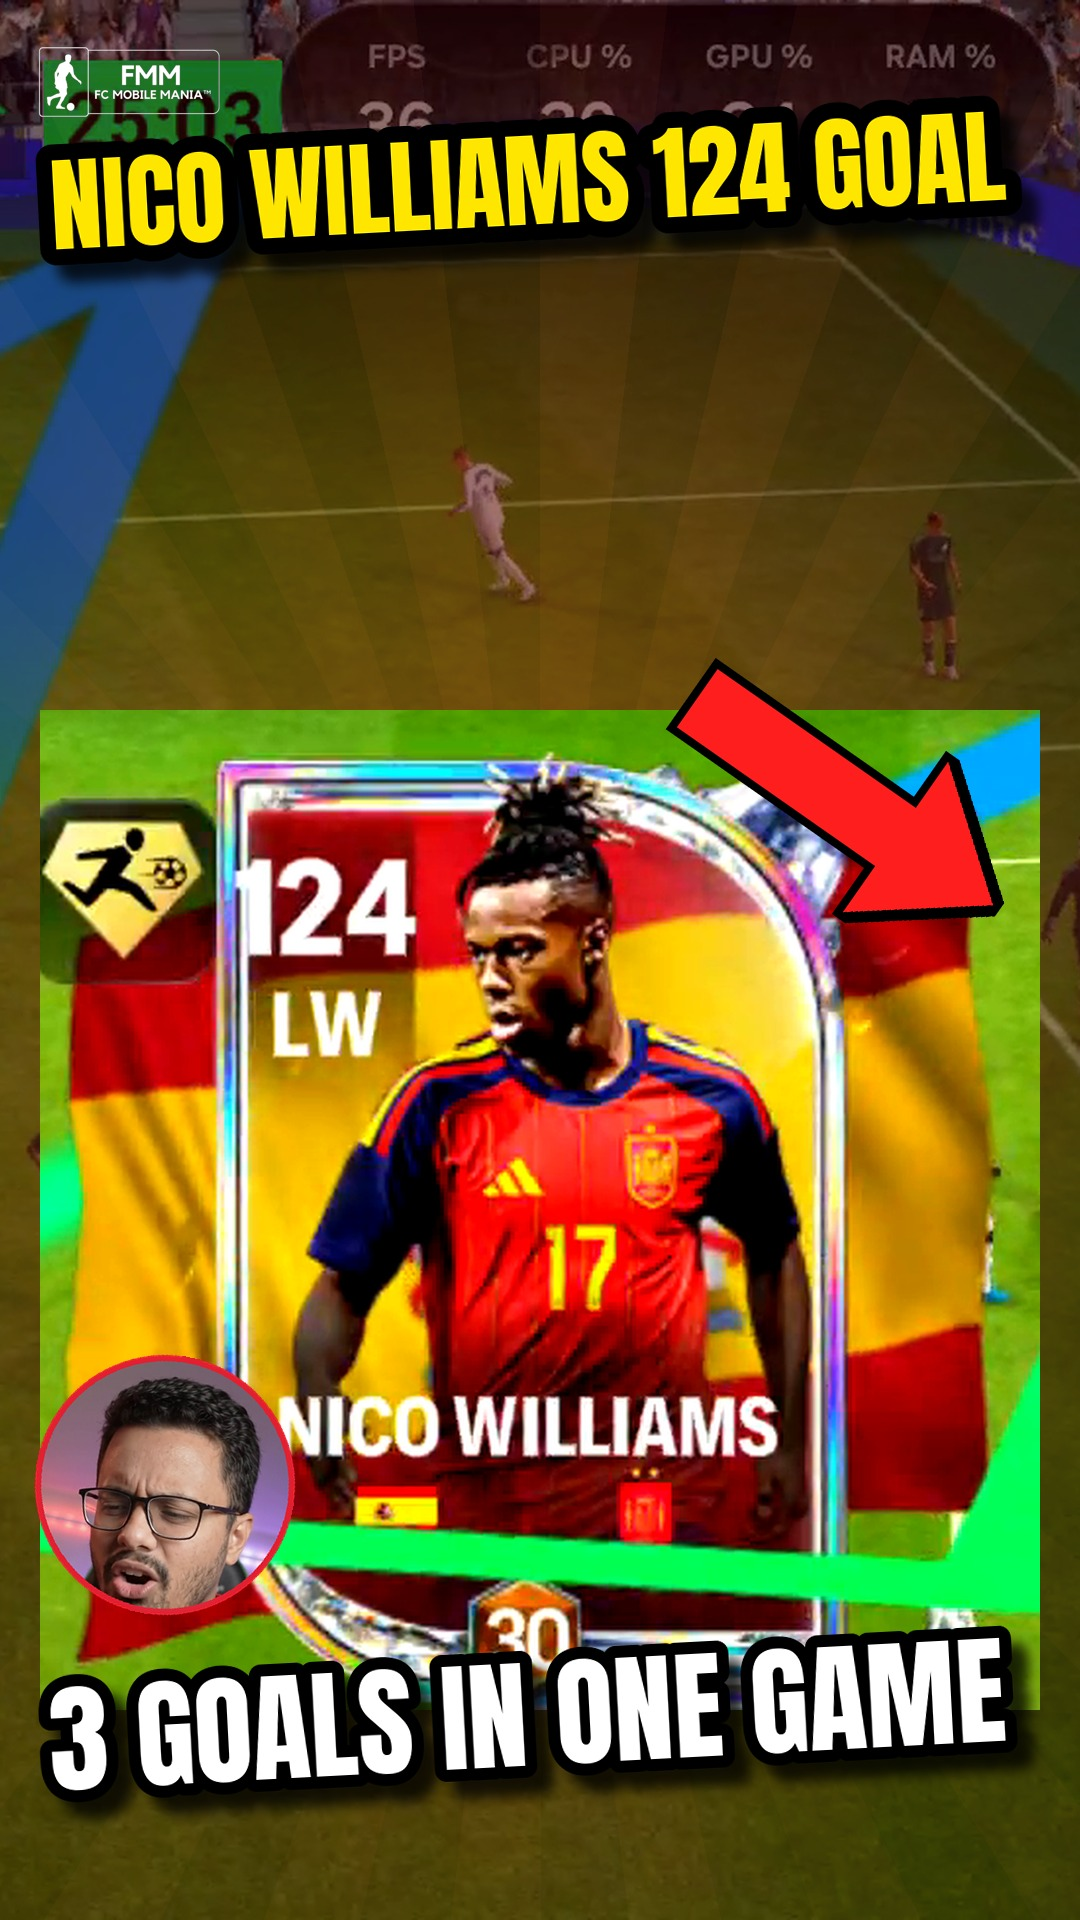
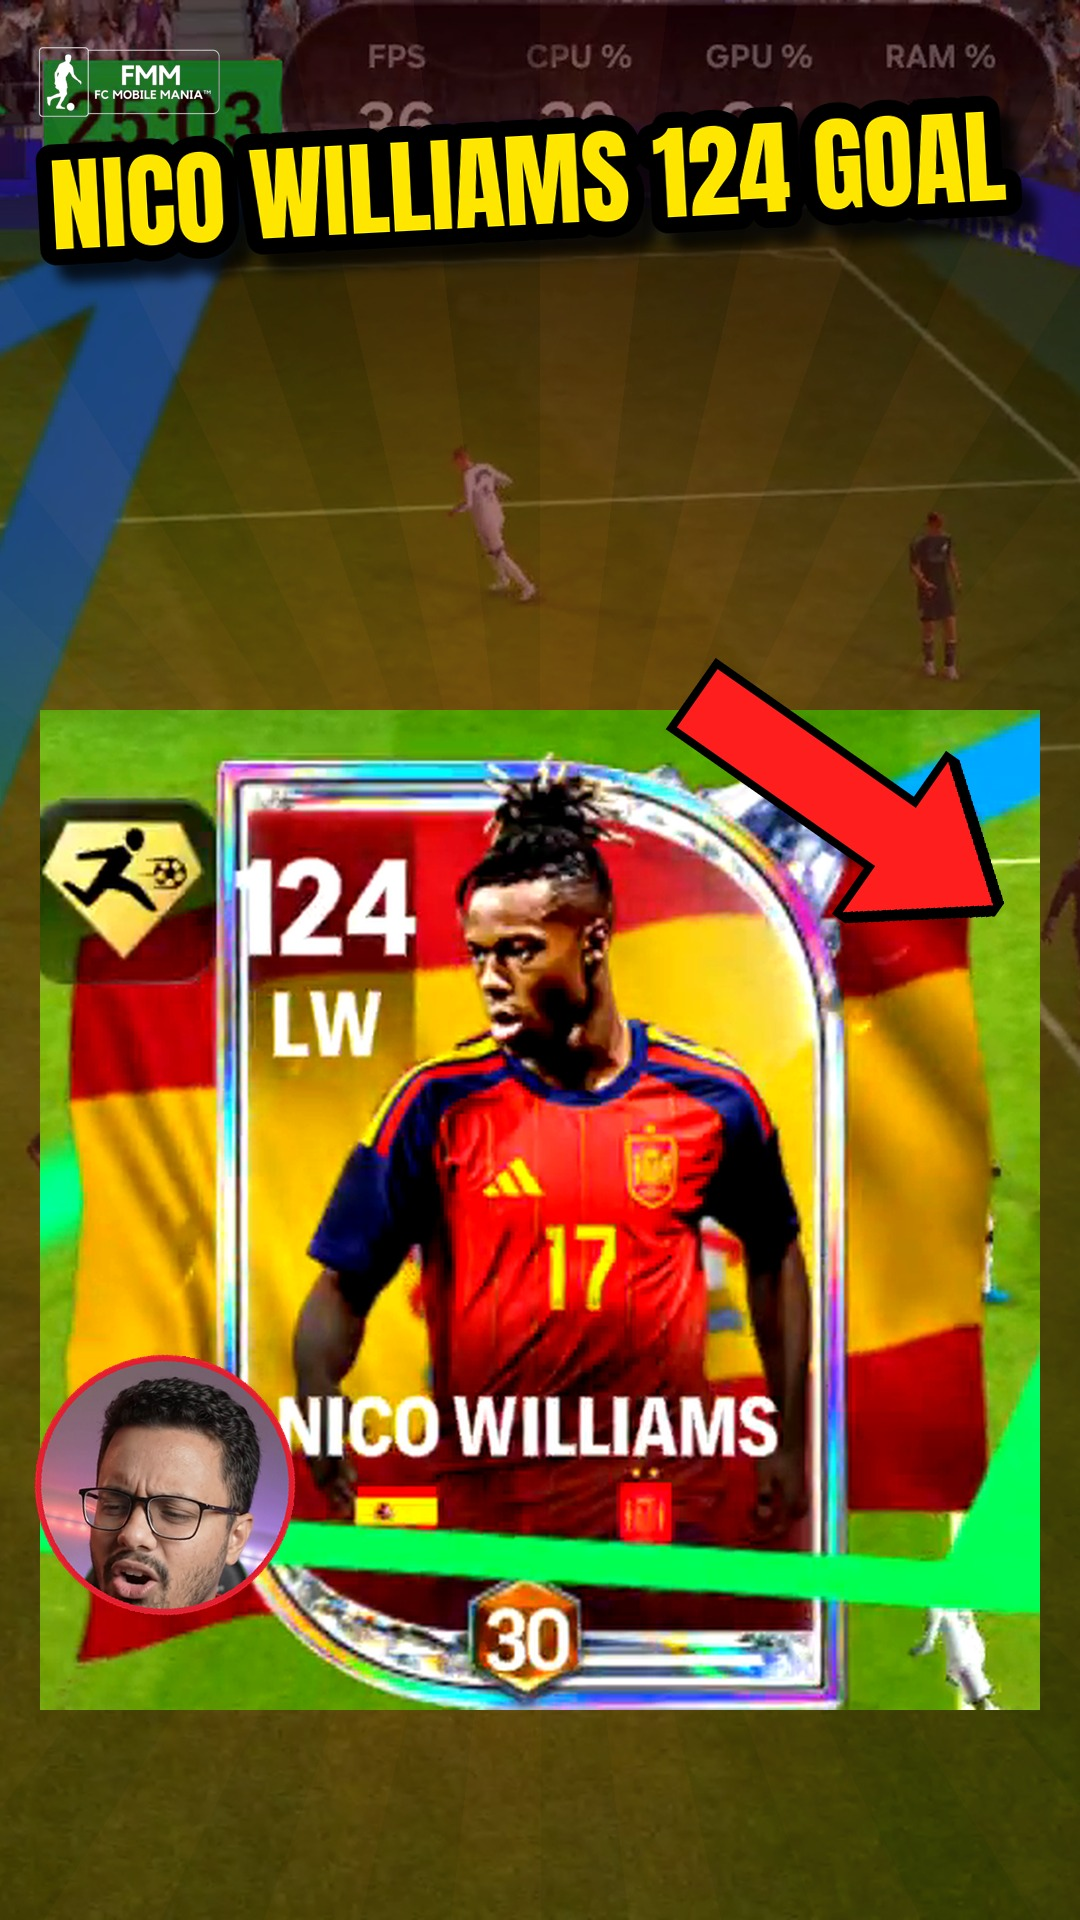
Goal Reel covers: remove the false hard-coded '3 GOALS IN ONE GAME' line (title only, like top Shorts); Nico Williams cover replaced on YT + FB

Changed region(s): [[0.0306, 0.8438, 0.9778, 0.9688]]

diff --git a/fmm/goalreel.py b/fmm/goalreel.py
@@ -19,7 +19,7 @@ JOBS = [{
     "name": "ronaldinho_hattrick",
     "source": "output/inbox/1CIeHvazDcGTilflZ7aGcUA3NtyKR2HAm.mp4",
     "parts": [(19.5, 30.5, "GOAL 1 • 8'"), (50.5, 61.5, "GOAL 2 • 12'"), (74.5, 85.5, "GOAL 3 • 30'")],
-    "title": "RONALDINHO HAT-TRICK!!",
+    "title": "RONALDINHO HAT-TRICK!!", "cover_sub": "3 GOALS IN ONE GAME",
     "card": "assets/cards/rz/f30922854.png",
     "caption": "124 Ronaldinho Hat-trick 🔥🇧🇷\n\nThree goals in one H2H match: 8', 12', 30'. Which one was the best? 👇"
                "\n\n#FCMobile #FIFAMobile #EAFC #Ronaldinho #FMM",
@@ -100,7 +100,7 @@ def make(job):
     frame = DIR / "_frame.png"
     subprocess.run(["ffmpeg", "-v", "error", "-y", "-ss", str(job["parts"][-1][1] - 1.5), "-i", str(src), "-frames:v", "1",
                     "-vf", "crop=ih*3/4:ih:(iw-ih*3/4)/2:0", str(frame)], check=True)
-    thumb.cover(str(ROOT / job["card"]), job["title"], DIR / f"{job['name']}_cover.jpg", sub="3 GOALS IN ONE GAME",
+    thumb.cover(str(ROOT / job["card"]), job["title"], DIR / f"{job['name']}_cover.jpg", sub=job.get("cover_sub"),  # 26 Nov: was hard-coded "3 GOALS IN ONE GAME" on every cover
                 color="red", bg=str(frame))
     (DIR / f"{job['name']}.txt").write_text(job["caption"], encoding="utf-8")
     for f in [*segs, lst, joined, frame]:
